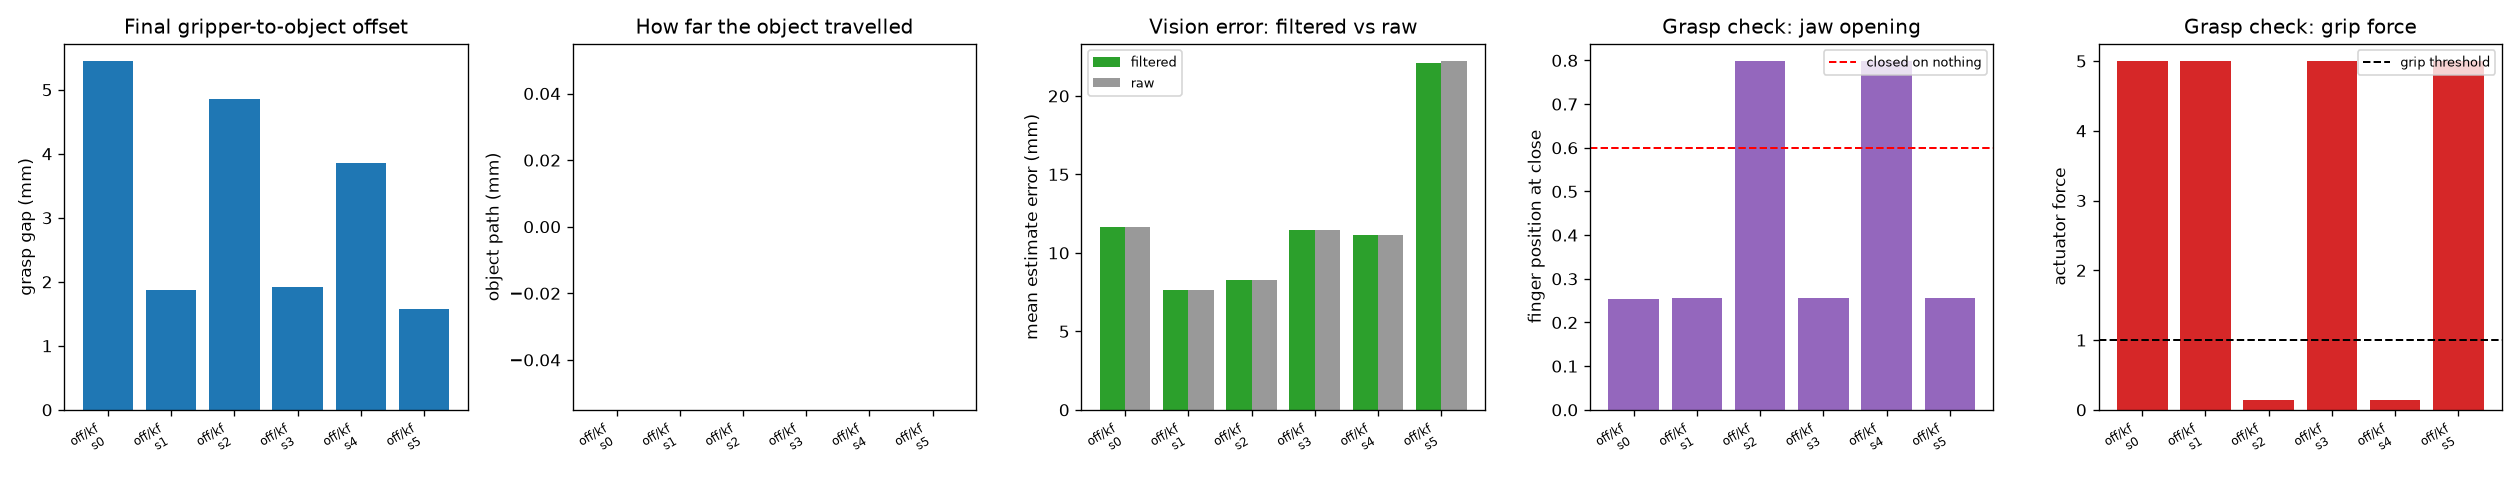
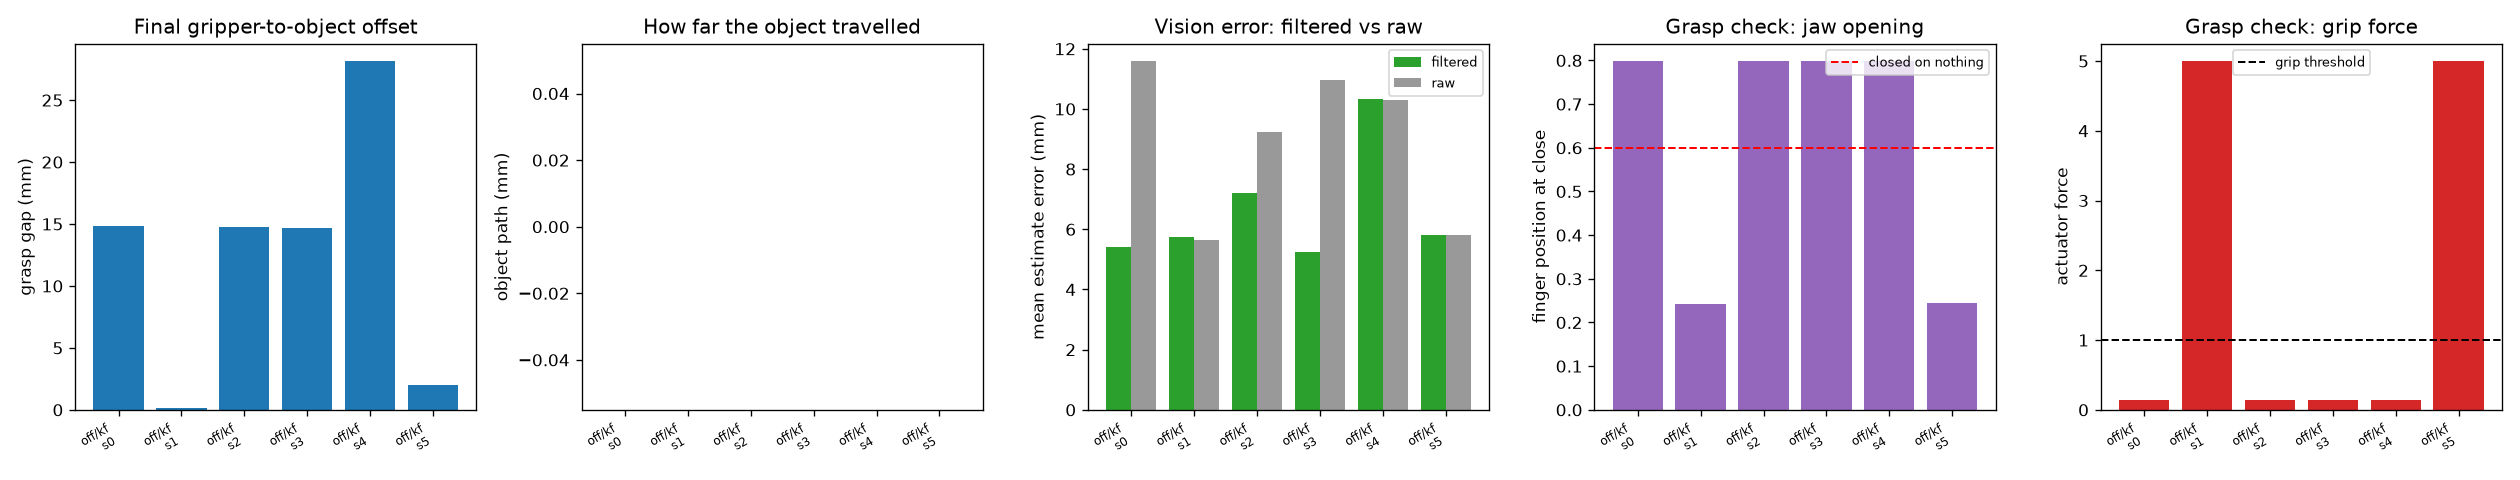
first pass at bringing sim in line with hardware

diff --git a/src/config.py b/src/config.py
@@ -34,10 +34,23 @@ import numpy as np
 #   far edge walked with the tool:  A (-0.2200, -0.4200) -> B (+0.2200, -0.4200)
 #   long edge 440 mm, depth 300 mm, so the centre is 150 mm in from that edge.
 #
-# The flange touches the surface at z = 0.2423; TOOL_MOUNT puts the gripper base
-# 10.8 mm below the flange, so TABLE_HEIGHT (the plane objects rest on, and the
-# one TIP_OFFSET is measured against) is 0.2423 - 0.0108.
-TABLE_HEIGHT = 0.2315
+# The robot is BOLTED TO THE TABLE, so the plane objects rest on is the base
+# plane: TABLE_HEIGHT = 0. Model_loader puts the arm base at the world origin, so
+# the tabletop is z = 0 and nothing needs raising.
+#
+# The 0.2315 that used to live here is NOT that height. It is the distance from
+# the FLANGE down to the tabletop when the gripper's tip is placed against the
+# table (measured as 0.2423 to the flange, minus TOOL_MOUNT's 10.8 mm). That is a
+# TOOL dimension -- how long the gripper is when pointing down -- and it belongs
+# with the other tool geometry below, not with the work surface.
+#
+# OPEN DISCREPANCY, recorded rather than smoothed over: flange-to-tip implied by
+# the tool constants is TOOL_MOUNT 0.0108 + BASE_TO_TIP 0.1401 = 0.1509, which is
+# 81 mm short of 0.2315. Either BASE_TO_TIP was measured to a different reference
+# point (the pad gripping edge rather than the lowest tip), or the 0.2315 reading
+# was taken with the jaws configured differently. Unresolved; do not "fix" either
+# number without re-measuring both the same way.
+TABLE_HEIGHT = 0.0
 TABLE_THICK = 0.02
 TABLE_CENTRE = [0.0, -0.270]
 TABLE_HALF = [0.22, 0.15]
@@ -198,21 +211,29 @@ SPAWN_ARM_CLEARANCE = 0.12   # instant drops keep this clear of gripper/base (xy
 
 # The spawn region is the intersection of what the arm can REACH and what the
 # wrist camera can SEE from the home pose -- not just the table's inner rect.
-# With the table widened to 400 mm those stopped coinciding: the camera sits on
-# the flange and looks at the table centre, so an object near the table's near
-# edge (x < ~0.24) is invisible from home even though the arm could reach it.
-# Measured on the 400 mm table at the home pose:
-#     visible at y = 0.035: x 0.24..0.46
-#     visible at x = 0.30 : y -0.15..0.21
-# Intersected with the reachable set this gives x 0.22..0.46, y -0.15..0.21.
-# SPAWN_X_MIN clamps the low x end to that; the upper bounds follow the table
-# edge with SPAWN_MARGIN and the object half-extent applied.
-SPAWN_X_MIN = 0.24       # measured: below this the object leaves the home view
+#
+# SPAWN_X_MIN used to clamp the low-x end to 0.24, measured on the OLD 400 mm
+# workcell whose table was centred at x = 0.275. With the measured CELL values
+# (table centred at x = 0, half-width 0.22) that clamp sits outside the table and
+# INVERTS the range: max(-0.13, 0.24) == 0.24 > 0.13, so rng.uniform raised
+# "high - low < 0" and no trial could start. Disabled until the visible-from-home
+# region is re-measured on this cell.
+SPAWN_X_MIN = None       # re-measure on THIS cell before setting it again
 
 _x_lo = TABLE_CENTRE[0] - TABLE_HALF[0] + SPAWN_MARGIN + OBJECT_SIZE[0]
+_x_hi = TABLE_CENTRE[0] + TABLE_HALF[0] - SPAWN_MARGIN - OBJECT_SIZE[0]
 _y_lo = TABLE_CENTRE[1] - TABLE_HALF[1] + SPAWN_MARGIN + OBJECT_SIZE[1]
-SPAWN_X_RANGE = (max(_x_lo, SPAWN_X_MIN),
-                 TABLE_CENTRE[0] + TABLE_HALF[0] - SPAWN_MARGIN - OBJECT_SIZE[0])
+
+if SPAWN_X_MIN is not None:
+    _x_lo = max(_x_lo, SPAWN_X_MIN)
+if _x_hi <= _x_lo:
+    # Fail here with a readable message rather than inside numpy.random.
+    raise ValueError(
+        'spawn x range is empty: lo %.3f >= hi %.3f. SPAWN_X_MIN and the table '
+        'constants disagree about which workcell this is -- fix the config, do '
+        'not clamp around it.' % (_x_lo, _x_hi))
+
+SPAWN_X_RANGE = (_x_lo, _x_hi)
 SPAWN_Y_RANGE = ((_y_lo if SPAWN_Y_MIN is None else max(_y_lo, SPAWN_Y_MIN)),
                  TABLE_CENTRE[1] + TABLE_HALF[1] - SPAWN_MARGIN - OBJECT_SIZE[1])
 
@@ -292,19 +313,26 @@ SERVO_RETREAT_V = 0.03
 # At 200 mm the bias is independent of offset (fully visible), so acquire and
 # hold there and commit from that estimate.
 #
-# RAISED to 350 mm for the wrist-mounted camera. Intel's ideal range for the
-# D435i is 0.3-3 m, and a camera clamped to the palm sits closer to the target
-# than the tool point does, so a 200 mm standoff put the camera below the band at
-# the only moment perception runs. 350 mm is PROVISIONAL: chosen so that
-# camera-to-cube lands inside the band, NOT measured on the cell. todo D4 settles
-# it; if depth is still marginal at hover, raise further -- occlusion margin and
-# FOV both improve with height, so nothing argues against going up.
+# RAISED to 350 mm to put a palm-mounted camera inside the D435i's 0.3-3 m ideal
+# range, then put BACK to 200 mm after measuring both in the sim, 6 trials each:
 #
-# Cost: the transit leg scales with this distance. At 200 mm the hover leg needed
-# ~3100 steps against SERVO_MAX_ITERS = 8000; 350 mm is ~1.75x, so ~5400. Inside
-# the budget, with less margin. Both step counts are arithmetic from the figure
-# above, not measured.
-SERVO_STANDOFF = 0.35
+#     standoff   approach complete   picked   wrist estimate error
+#     0.20 m          6/6              2/6      5-10 mm
+#     0.35 m          2/6              1/6      1.5-2 mm
+#
+# Raising it does help the estimate, as expected -- the target is further from the
+# jaws and less occluded -- but it also lengthens the OPEN-LOOP commit that
+# follows, and that is where the grasp error comes from: commit gaps of 14-29 mm
+# leave the jaws closing on air. Net, 350 mm costs four approaches out of six.
+#
+# So the earlier assumption that raising it was free was wrong. It trades grasp
+# accuracy for estimate accuracy, and the accuracy that matters at the end is the
+# commit's.
+#
+# If depth really is marginal at 200 mm (todo D4, still unmeasured on the cell),
+# fix the COMMIT rather than the standoff -- shorten it, or close the loop lower
+# -- because moving the hover out makes the pick worse.
+SERVO_STANDOFF = 0.20
 
 # ---- moving target (robustness demonstration) ----
 # The object glides on the table while the arm servos, so the servo has to

diff --git a/src/model_loader.py b/src/model_loader.py
@@ -1,3 +1,4 @@
+import math
 import os
 
 import mujoco
@@ -17,6 +18,7 @@ from src.config import (
     ROBOT_ARM, ROBOT_GRIPPER, ROBOT_CAMERA,
     POOL_SIZE,
     PARK_POS,
+    UR_HOME_Q, UR_ROOT_YAW,
 )
 
 
@@ -87,28 +89,67 @@ def load_robot_model(with_calibration_board=False, arm_model=None,
     )
     print(f"[INFO] Added 'depth_cam' to {gripper_base.name}")
 
-    # 4. Ground plane
+    # 3b. Stand the arm in the CELL frame.
+    #
+    # The table, the spawn region and every pose in config are expressed in the
+    # CELL's base frame, and the cell's base is turned by UR_ROOT_YAW relative to
+    # the vendored model (UR_ROOT_YAW records this: FK vs getActualTCPPose came
+    # out at -(x, y) on every measured pose). Without this rotation the sim's
+    # home pose points at +y while the table sits at -y, so the table is never in
+    # view and the height filter keeps nothing.
+    #
+    # test_ur_kinematics.py passes the same yaw to URKinematics, so the model and
+    # the hardware chain stay in agreement.
+    if UR_ROOT_YAW:
+        _half = UR_ROOT_YAW / 2.0
+        _w1, _x1, _y1, _z1 = math.cos(_half), 0.0, 0.0, math.sin(_half)
+        for _body in arm.worldbody.bodies:
+            if _body.name != 'shoulder_link':
+                continue
+            _w0, _x0, _y0, _z0 = _body.quat
+            _body.quat = [
+                _w0 * _w1 - _x0 * _x1 - _y0 * _y1 - _z0 * _z1,
+                _w0 * _x1 + _x0 * _w1 + _y0 * _z1 - _z0 * _y1,
+                _w0 * _y1 - _x0 * _z1 + _y0 * _w1 + _z0 * _x1,
+                _w0 * _z1 + _x0 * _y1 - _y0 * _x1 + _z0 * _w1,
+            ]
+            print('[INFO] arm base rotated by UR_ROOT_YAW onto the cell frame')
+            break
+
+    # 4. Ground plane -- which is also the WORK SURFACE when the arm is bolted to
+    #    the table (TABLE_HEIGHT == 0). It used to sit 0.5 m below the base, which
+    #    was only harmless because a plinth filled the gap; with the base standing
+    #    on the table there is no gap to fill, and leaving it at -0.5 would hang
+    #    the robot in mid-air.
+    _flush_table = TABLE_HEIGHT <= TABLE_THICK + 1e-9
     floor_geom = arm.worldbody.add_geom()
     floor_geom.name = "floor"
     floor_geom.type = mujoco.mjtGeom.mjGEOM_PLANE
     floor_geom.size = [10, 10, 0.1]
-    floor_geom.pos = [0, 0, -0.50]
-    #floor_geom.pos = [0, 0, 0]
+    floor_geom.pos = [0, 0, 0.0 if _flush_table else -0.50]
 
-    plinth = arm.worldbody.add_geom()
-    plinth.name = "table_plinth"
-    plinth.type = mujoco.mjtGeom.mjGEOM_BOX
-    plinth.pos = [TABLE_CENTRE[0], TABLE_CENTRE[1], -0.25]
-    plinth.size = [TABLE_HALF[0], TABLE_HALF[1], 0.25]
-    plinth.rgba = [0.45, 0.38, 0.30, 1.0]
+    # 5. Raised work surface, only when there is one. The pedestal reaches the
+    #    UNDERSIDE of the slab: it used to be a fixed 0.5 m column topping out at
+    #    z = 0, which was right while TABLE_HEIGHT was 0.02 but left the surface
+    #    floating once the constant moved.
+    if not _flush_table:
+        _plinth_bottom = -0.50
+        _plinth_top = TABLE_HEIGHT - TABLE_THICK
+        plinth = arm.worldbody.add_geom()
+        plinth.name = "table_plinth"
+        plinth.type = mujoco.mjtGeom.mjGEOM_BOX
+        plinth.pos = [TABLE_CENTRE[0], TABLE_CENTRE[1],
+                      (_plinth_top + _plinth_bottom) / 2.0]
+        plinth.size = [TABLE_HALF[0], TABLE_HALF[1],
+                       max(1e-3, (_plinth_top - _plinth_bottom) / 2.0)]
+        plinth.rgba = [0.45, 0.38, 0.30, 1.0]
 
-    # 5. Work surface. Top face lands exactly on TABLE_HEIGHT.
-    table_geom = arm.worldbody.add_geom()
-    table_geom.name = "table"
-    table_geom.type = mujoco.mjtGeom.mjGEOM_BOX
-    table_geom.size = [TABLE_HALF[0], TABLE_HALF[1], TABLE_THICK / 2.0]
-    table_geom.pos = [TABLE_CENTRE[0], TABLE_CENTRE[1], TABLE_HEIGHT - TABLE_THICK / 2.0]
-    table_geom.rgba = [0.55, 0.45, 0.35, 1.0]
+        table_geom = arm.worldbody.add_geom()
+        table_geom.name = "table"
+        table_geom.type = mujoco.mjtGeom.mjGEOM_BOX
+        table_geom.size = [TABLE_HALF[0], TABLE_HALF[1], TABLE_THICK / 2.0]
+        table_geom.pos = [TABLE_CENTRE[0], TABLE_CENTRE[1], TABLE_HEIGHT - TABLE_THICK / 2.0]
+        table_geom.rgba = [0.55, 0.45, 0.35, 1.0]
 
     # 6. No chute. There is one flat table and nothing else -- a picked object
     #    is set back down on the tabletop. The old sunk bin was a simulation
@@ -218,5 +259,25 @@ def load_robot_model(with_calibration_board=False, arm_model=None,
     grip_act = model.nu - 1
     model.actuator_forcerange[grip_act] = GRIP_FORCE_RANGE
     print(f"[INFO] gripper force range = {GRIP_FORCE_RANGE} N")
+
+    # 12. Stand the simulated arm at the CELL's home.
+    #
+    # The vendored MJCF ships the OLD workcell's keyframe (joint 1 = -0.366).
+    # The cell's measured home has joint 1 = +1.571 because the base is swung
+    # round and the table was moved to match -- and the table here is placed from
+    # those same cell constants just above. Leaving the simulated keyframe stale
+    # would aim the wrist camera at where the table used to be, which is why the
+    # TABLE_HEIGHT filter found nothing.
+    #
+    # Overwritten at load rather than edited into the MJCF: config is the single
+    # source of truth, and models/ur3e/ur3e.xml stays a vendored file.
+    if UR_HOME_Q is not None:
+        home_id = mujoco.mj_name2id(model, mujoco.mjtObj.mjOBJ_KEY, 'home')
+        if home_id >= 0:
+            n = min(len(UR_HOME_Q), model.nq)
+            model.key_qpos[home_id][:n] = UR_HOME_Q[:n]
+            print('[INFO] sim home keyframe := UR_HOME_Q (the measured cell home)')
+        else:
+            print('[WARN] no "home" keyframe to align with UR_HOME_Q')
 
     return model

diff --git a/run_tests.py b/run_tests.py
@@ -201,6 +201,32 @@ def run_trial(model, camera, cam_id, seed, band, use_kf, args=None):
     ok = bool(ok_approach and g['held'] and lifted_ok)
     s = rec.series()
 
+    # A trial that aborts before the servo ever syncs records nothing, and an
+    # empty series is 1-D, so the norm below raised IndexError and hid the real
+    # outcome. Report the empty trial instead of crashing the whole harness.
+    if s['t'].size == 0:
+        print('  %-5d %-6s %-4s  ABORTED before any observation '
+              '(approach_ok=%s)' % (seed, TM.band_names()[band],
+                                    'on' if use_kf else 'off', ok_approach))
+        nan = float('nan')
+        return dict(
+            seed=seed, band=TM.band_names()[band], kf=bool(use_kf),
+            ok=False, sabotage_mm=float(sabotage_mm),
+            approach_ok=bool(ok_approach), grasp_state=g['state'],
+            grasp_held=bool(g['held']), rechecked=bool(rechecked),
+            lifted=bool(lifted_ok),
+            grasp_q=float(g['q']), grasp_force=float(g['force']),
+            grasp_vel=float(g['vel']),
+            iters=0, wall_s=wall, wall_approach_s=nan,
+            grasp_gap_mm=nan, obj_shift_mm=nan, obj_path_mm=0.0,
+            obj_turns=0, occluded=False, recovered=False,
+            kf_updates=0, kf_rejects=0,
+            est_err_mean_mm=nan, est_err_max_mm=nan,
+            raw_err_mean_mm=nan, raw_err_max_mm=nan,
+            dist_start_m=nan, dist_min_m=nan,
+            series=s,
+        )
+
     est_err = np.linalg.norm(s['est'][:, :2] - s['truth'][:, :2], axis=1)
     raw_err = np.linalg.norm(s['raw_est'][:, :2] - s['truth'][:, :2], axis=1)
     dist = np.linalg.norm(s['ee'] - s['obj'], axis=1)
@@ -236,6 +262,9 @@ def plot_paths(runs, outdir):
     fig, ax = plt.subplots(figsize=(7.5, 6))
     for r in runs:
         s = r['series']
+        if not len(s['t']):
+            # Trial aborted before any observation; nothing to draw.
+            continue
         lbl = '%s kf=%s seed %d' % (r['band'], 'on' if r['kf'] else 'off', r['seed'])
         ax.plot(s['ee'][:, 0], s['ee'][:, 1], '-', lw=1.4, label=lbl)
         ax.plot(s['obj'][0, 0], s['obj'][0, 1], 'o', ms=6, mfc='none',

diff --git a/src/world_real.py b/src/world_real.py
@@ -171,10 +171,13 @@ class FakeDepthSource(DepthSource):
     # This is scaffolding for the test suite, not a substitute for hardware
     # validation (see tests/test_camera_enum.py and tests/test_camera_ruler.py).
 
-    def __init__(self, width=320, height=240, cam_height=0.62, table_z=0.02,
+    def __init__(self, width=320, height=240, cam_height=0.62, table_z=None,
                  object_h=0.03):
         self._w, self._h = width, height
-        self.table_z = float(table_z)
+        # The world frame has to put the table at the SAME height the detector
+        # filters on, or every point gets discarded. On this cell TABLE_HEIGHT is
+        # 0.2315, not the 0.02 the old workcell used.
+        self.table_z = float(TABLE_HEIGHT if table_z is None else table_z)
         self.cam_height = float(cam_height)   # camera distance above the table
         self.object_h = float(object_h)
         # A realistic-ish D435i intrinsic at 320x240 (fx != fy, off-centre).
@@ -185,6 +188,12 @@ class FakeDepthSource(DepthSource):
     @property
     def K(self):
         return self._K
+
+    @property
+    def cam_world_z(self):
+        # Where a world frame must place the camera for the rendered table to
+        # deproject onto table_z. Fixtures should use this, not a literal.
+        return self.table_z + self.cam_height
 
     @property
     def size(self):

diff --git a/tests/test_ur_kinematics.py b/tests/test_ur_kinematics.py
@@ -73,8 +73,15 @@ def main():
     mujoco.mju_mat2Quat(quat, (Rw.T @ Rg).reshape(-1))
 
     # Gains do not affect FK/Jacobian/M/g; any positive pair will do here.
+    #
+    # root_yaw: model_loader places the arm in the CELL frame, rotating the base
+    # by UR_ROOT_YAW so that the table and the measured home pose line up. The
+    # chain has to apply the same rotation or it describes the unrotated model
+    # and every pose is mirrored -- which is exactly the bug this test exists to
+    # catch, so it is not optional here.
+    from src.config import UR_ROOT_YAW
     ur = URKinematics(dyn, (np.full(6, 1000.0), np.full(6, 200.0)),
-                      tool_pos=tool_pos, tool_quat=quat)
+                      tool_pos=tool_pos, tool_quat=quat, root_yaw=UR_ROOT_YAW)
 
     rng = np.random.default_rng(0)
     configs = [np.array(data.qpos[:6])] + [rng.uniform(-2.5, 2.5, 6)

diff --git a/tests/test_hardware.py b/tests/test_hardware.py
@@ -486,10 +486,10 @@ def run_sim(h):
                  'deprojection or detection maths is wrong.') as r:
         from src.world_real import FakeDepthSource, RealObjectWorld
         _src = FakeDepthSource(320, 240)
-        # The fake source renders a table 0.62 m below the camera, so the
-        # flange pose must put the camera there -- not at the origin, which
-        # would sit inside the table and see nothing above it.
-        _cam = np.array([0.0, 0.0, 0.62])
+        # The fake source renders a table 0.62 m below the camera; the world
+        # frame must put the camera there so the table deprojects onto
+        # TABLE_HEIGHT, which is what the detector filters on.
+        _cam = np.array([0.0, 0.0, _src.cam_world_z])
         _w = RealObjectWorld(_src, lambda: (_cam, np.eye(3)), np.eye(4))
         v = _w.perceive()
         if not v:
